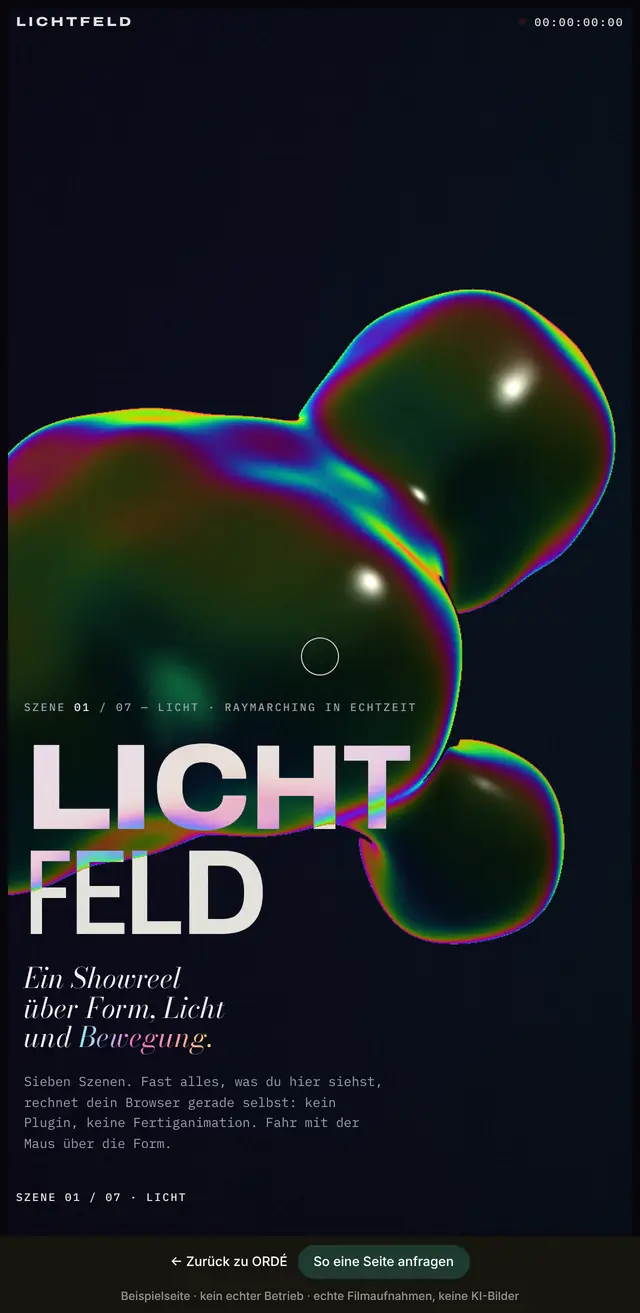
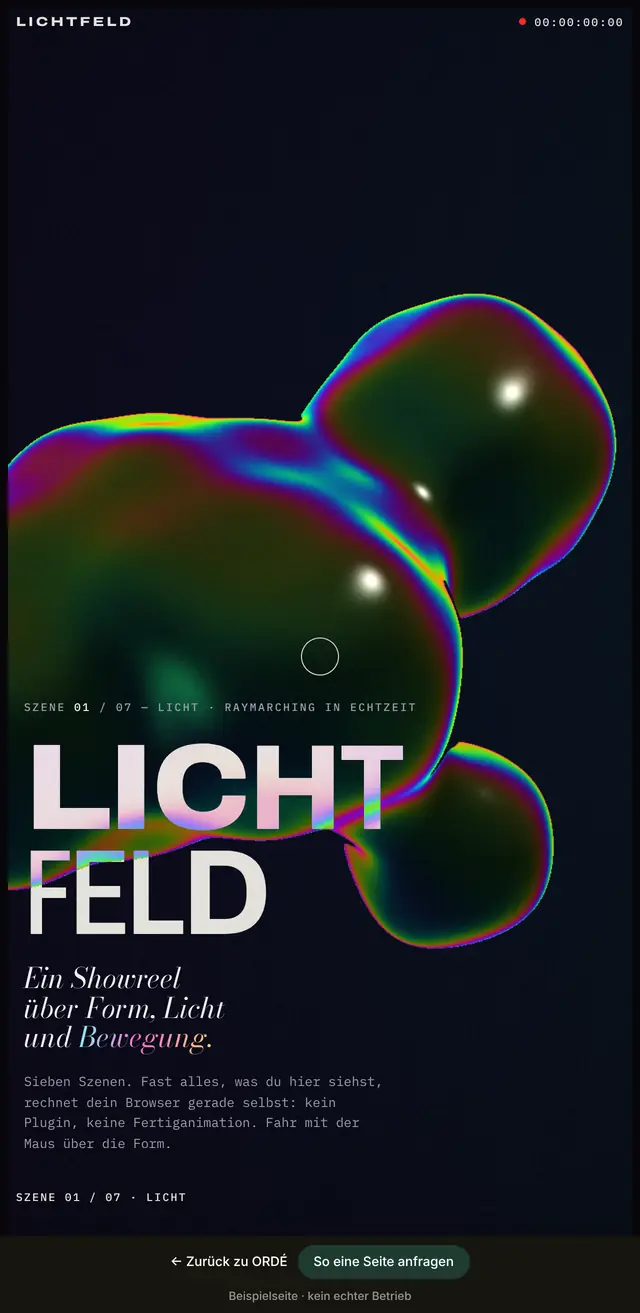
Showreels: nichts mehr zur Herkunft der Videos
Kein „echte Filmaufnahmen, keine KI-Bilder“, kein „frei lizenziert“, keine
Clip-Etiketten mehr, auch nicht im Rückkehr-Balken. LIZENZEN.md nennt die
Quelle nicht mehr, die Nachweise liegen im privaten Handbuch. Vorschaubilder
neu (Arturs Vorgabe vom 03.11.2026).

Claude-Session: https://claude.ai/code/session_01Y1TQqoZVWe5NoND9wqLr2G

diff --git a/demos/monolith/index.html b/demos/monolith/index.html
@@ -239,7 +239,7 @@ canvas{display:block}
       <div class="real-fuss">
         <div class="real-titel" aria-live="polite">
           <h2 id="realTitel">Rohbau im <em>Gegenlicht.</em></h2>
-          <p id="realText">1920 × 1080 · 30 fps · echte Aufnahme</p>
+          <p id="realText">1920 × 1080 · 30 fps</p>
         </div>
         <span class="real-nr" id="realNr">01</span>
       </div>
@@ -269,13 +269,13 @@ canvas{display:block}
           <tr><td>A-200</td><td>Volumen</td><td>Bauteile wachsen aus dem Grundriss, Materialien blenden ein</td></tr>
           <tr><td>A-300</td><td>Sonnenstudie</td><td>Sonnenstand nach Breitengrad und Stundenwinkel, weiche Schatten</td></tr>
           <tr><td>A-400</td><td>Schnitt</td><td>Zwei Schnittebenen trennen Arbeitsmodell und Ausführung</td></tr>
-          <tr><td>A-500</td><td>Wirklichkeit</td><td>Vier echte Clips in Full HD, Fenster aus Schnittmasken</td></tr>
+          <tr><td>A-500</td><td>Wirklichkeit</td><td>Vier Clips in Full HD, Fenster aus Schnittmasken</td></tr>
         </tbody>
       </table>
     </div>
     <div class="ende-fuss">
       <button class="knopf" id="nochmal" type="button">Zurück zum Plan ↑</button>
-      <p class="hinweis">Monolith ist ein erfundenes Haus für diese Beispielseite, kein echtes Projekt. Die Videos sind echte Aufnahmen, keine KI-Bilder. Das 3D-Modell wird live im Browser berechnet, die Auflösung passt sich der Leistung des Geräts an. Gebaut von ORDÉ.</p>
+      <p class="hinweis">Monolith ist ein erfundenes Haus für diese Beispielseite, kein echtes Projekt. Das 3D-Modell wird live im Browser berechnet, die Auflösung passt sich der Leistung des Geräts an. Gebaut von ORDÉ.</p>
     </div>
   </div>
 </section>
@@ -615,7 +615,7 @@ function initReal() {
       if (zeigen && geladen) { if (v.paused) { const pr = v.play(); pr && pr.catch(() => {}); } } else if (!v.paused) v.pause();
     });
     const k = clamp(Math.floor(p * N + .4), 0, N - 1);
-    if (k !== aktiv) { aktiv = k; titel.innerHTML = REAL[k][0]; text.textContent = `${REAL[k][1]} · 1920 × 1080 · 30 fps · echte Aufnahme`; nr.textContent = zwei(k + 1); }
+    if (k !== aktiv) { aktiv = k; titel.innerHTML = REAL[k][0]; text.textContent = `${REAL[k][1]} · 1920 × 1080 · 30 fps`; nr.textContent = zwei(k + 1); }
   }, aus() { vids.forEach(v => v.pause()); } });
 }
 
@@ -654,7 +654,7 @@ if (window.gsap && !RM) {
 
 <div id="ordeBalken">
   <a href="../../referenzen.html">&larr; Zur&uuml;ck zu ORD&Eacute;</a>
-  <span>Beispielseite &middot; erfundenes Projekt &middot; echte Filmaufnahmen, keine KI-Bilder</span>
+  <span>Beispielseite &middot; erfundenes Projekt</span>
   <a class="ordeCta" href="../../anfrage.html">So eine Seite anfragen</a>
 </div>
 <style>

diff --git a/demos/monolith/en.html b/demos/monolith/en.html
@@ -239,7 +239,7 @@ canvas{display:block}
       <div class="real-fuss">
         <div class="real-titel" aria-live="polite">
           <h2 id="realTitel">The shell, <em>backlit.</em></h2>
-          <p id="realText">1920 × 1080 · 30 fps · real footage</p>
+          <p id="realText">1920 × 1080 · 30 fps</p>
         </div>
         <span class="real-nr" id="realNr">01</span>
       </div>
@@ -269,13 +269,13 @@ canvas{display:block}
           <tr><td>A-200</td><td>Massing</td><td>Building elements rise from the floor plan, materials fade in</td></tr>
           <tr><td>A-300</td><td>Sun study</td><td>Sun position from latitude and hour angle, soft shadows</td></tr>
           <tr><td>A-400</td><td>Section</td><td>Two section planes separate working model and built design</td></tr>
-          <tr><td>A-500</td><td>Reality</td><td>Four real Full HD clips, windows cut with clipping masks</td></tr>
+          <tr><td>A-500</td><td>Reality</td><td>Four Full HD clips, windows cut with clipping masks</td></tr>
         </tbody>
       </table>
     </div>
     <div class="ende-fuss">
       <button class="knopf" id="nochmal" type="button">Back to the plan ↑</button>
-      <p class="hinweis">Monolith is a made-up house for this example site, not a real project. The videos are real footage, no AI images. The 3D model is rendered live in your browser, and its resolution adapts to your device. Built by ORDÉ.</p>
+      <p class="hinweis">Monolith is a made-up house for this example site, not a real project. The 3D model is rendered live in your browser, and its resolution adapts to your device. Built by ORDÉ.</p>
     </div>
   </div>
 </section>
@@ -615,7 +615,7 @@ function initReal() {
       if (zeigen && geladen) { if (v.paused) { const pr = v.play(); pr && pr.catch(() => {}); } } else if (!v.paused) v.pause();
     });
     const k = clamp(Math.floor(p * N + .4), 0, N - 1);
-    if (k !== aktiv) { aktiv = k; titel.innerHTML = REAL[k][0]; text.textContent = `${REAL[k][1]} · 1920 × 1080 · 30 fps · real footage`; nr.textContent = zwei(k + 1); }
+    if (k !== aktiv) { aktiv = k; titel.innerHTML = REAL[k][0]; text.textContent = `${REAL[k][1]} · 1920 × 1080 · 30 fps`; nr.textContent = zwei(k + 1); }
   }, aus() { vids.forEach(v => v.pause()); } });
 }
 
@@ -654,7 +654,7 @@ if (window.gsap && !RM) {
 
 <div id="ordeBalken">
   <a href="../../en/examples.html">&larr; Back to ORD&Eacute;</a>
-  <span>Example site &middot; made-up project &middot; real footage, no AI images</span>
+  <span>Example site &middot; made-up project</span>
   <a class="ordeCta" href="../../en/contact.html">Request a site like this</a>
 </div>
 <style>

diff --git a/demos/lichtfeld/index.html b/demos/lichtfeld/index.html
@@ -326,7 +326,6 @@ canvas{display:block}
     <h2>Bild wird <em>Flüssigkeit.</em></h2>
     <div class="fluss-fuss">
       <p class="mono">Bewege die Maus oder den Finger über das Bild. Ein Shader verbiegt das laufende Video, sechzigmal pro Sekunde. Schnelles Scrollen spaltet die Farben.</p>
-      <p class="etikett">Echte Aufnahme · frei lizenziert</p>
     </div>
   </div>
 </section>
@@ -344,11 +343,10 @@ canvas{display:block}
       <div><dt>Rhythmus</dt><dd>Horizontale Fahrt, Neigung nach Scrollgeschwindigkeit</dd></div>
       <div><dt>Fluss</dt><dd>Wellenverzerrung und Farbspaltung auf laufendem Video</dd></div>
       <div><dt>Schrift</dt><dd>Archivo (variable Breite), Bodoni Moda, IBM Plex Mono</dd></div>
-      <div><dt>Clips</dt><dd>Echte Filmaufnahmen, frei lizenziert</dd></div>
     </dl>
     <div class="abspann-fuss">
       <button class="knopf" id="nochmal" type="button">Nochmal von vorn <span aria-hidden="true">↑</span></button>
-      <p class="hinweis">Abstrakte Beispielseite, kein echter Betrieb. Die Videos sind echte Aufnahmen, keine KI-Bilder. Gebaut von ORDÉ als eine einzige HTML-Datei.</p>
+      <p class="hinweis">Abstrakte Beispielseite, kein echter Betrieb. Gebaut von ORDÉ als eine einzige HTML-Datei.</p>
     </div>
   </div>
 </section>
@@ -903,7 +901,7 @@ if (window.gsap && !RM) {
 
 <div id="ordeBalken">
   <a href="../../referenzen.html">&larr; Zur&uuml;ck zu ORD&Eacute;</a>
-  <span>Beispielseite &middot; kein echter Betrieb &middot; echte Filmaufnahmen, keine KI-Bilder</span>
+  <span>Beispielseite &middot; kein echter Betrieb</span>
   <a class="ordeCta" href="../../anfrage.html">So eine Seite anfragen</a>
 </div>
 <style>

diff --git a/demos/lichtfeld/en.html b/demos/lichtfeld/en.html
@@ -326,7 +326,6 @@ canvas{display:block}
     <h2>Footage turns <em>liquid.</em></h2>
     <div class="fluss-fuss">
       <p class="mono">Drag your mouse or finger across the image. A shader warps the playing video sixty times a second. Scroll fast and the colors split apart.</p>
-      <p class="etikett">Real footage · free license</p>
     </div>
   </div>
 </section>
@@ -344,11 +343,10 @@ canvas{display:block}
       <div><dt>Rhythm</dt><dd>Horizontal track, tilt driven by scroll speed</dd></div>
       <div><dt>Flow</dt><dd>Ripple distortion and color split on live video</dd></div>
       <div><dt>Type</dt><dd>Archivo (variable width), Bodoni Moda, IBM Plex Mono</dd></div>
-      <div><dt>Clips</dt><dd>Real footage, free license</dd></div>
     </dl>
     <div class="abspann-fuss">
       <button class="knopf" id="nochmal" type="button">Play it again <span aria-hidden="true">↑</span></button>
-      <p class="hinweis">Abstract example site, not a real business. The videos are real footage, no AI images. Built by ORDÉ as a single HTML file.</p>
+      <p class="hinweis">Abstract example site, not a real business. Built by ORDÉ as a single HTML file.</p>
     </div>
   </div>
 </section>
@@ -903,7 +901,7 @@ if (window.gsap && !RM) {
 
 <div id="ordeBalken">
   <a href="../../en/examples.html">&larr; Back to ORD&Eacute;</a>
-  <span>Example site &middot; not a real business &middot; real footage, no AI images</span>
+  <span>Example site &middot; not a real business</span>
   <a class="ordeCta" href="../../en/contact.html">Request a site like this</a>
 </div>
 <style>

diff --git a/demos/lumen/index.html b/demos/lumen/index.html
@@ -281,11 +281,10 @@ canvas{display:block}
       <div><dt>Particle Morph</dt><dd>Teilchen formen Flakon, Nebel und Schriftzug, Maus als Kraftfeld</dd></div>
       <div><dt>Golden Portal</dt><dd>Drei Ringe aus Gold, Lichtwirbel aus einem Video im Shader, Flug hindurch</dd></div>
       <div><dt>Schrift</dt><dd>Italiana, Newsreader, Jost</dd></div>
-      <div><dt>Clips</dt><dd>Echte Filmaufnahmen, frei lizenziert</dd></div>
     </dl>
     <div class="abspann-fuss">
       <button class="knopf" id="nochmal" type="button">Zurück zum Flakon ↑</button>
-      <p class="hinweis">Lumen No. 4 ist eine erfundene Marke für diese Beispielseite, kein echtes Produkt. Die Videos sind echte Aufnahmen, keine KI-Bilder. Flakon, Glas, Teilchen und Portal werden live im Browser berechnet. Gebaut von ORDÉ als eine einzige HTML-Datei.</p>
+      <p class="hinweis">Lumen No. 4 ist eine erfundene Marke für diese Beispielseite, kein echtes Produkt. Flakon, Glas, Teilchen und Portal werden live im Browser berechnet. Gebaut von ORDÉ als eine einzige HTML-Datei.</p>
     </div>
   </div>
 </section>
@@ -803,7 +802,7 @@ if (window.gsap && !RM) {
 
 <div id="ordeBalken">
   <a href="../../referenzen.html">&larr; Zur&uuml;ck zu ORD&Eacute;</a>
-  <span>Beispielseite &middot; erfundene Marke &middot; echte Filmaufnahmen, keine KI-Bilder</span>
+  <span>Beispielseite &middot; erfundene Marke</span>
   <a class="ordeCta" href="../../anfrage.html">So eine Seite anfragen</a>
 </div>
 <style>

diff --git a/demos/lumen/en.html b/demos/lumen/en.html
@@ -281,11 +281,10 @@ canvas{display:block}
       <div><dt>Particle Morph</dt><dd>Particles form flacon, mist and wordmark; the mouse acts as a force field</dd></div>
       <div><dt>Golden Portal</dt><dd>Three gold rings, a swirl of light drawn from video in a shader, a flight through</dd></div>
       <div><dt>Typefaces</dt><dd>Italiana, Newsreader, Jost</dd></div>
-      <div><dt>Footage</dt><dd>Real footage, free license</dd></div>
     </dl>
     <div class="abspann-fuss">
       <button class="knopf" id="nochmal" type="button">Back to the flacon ↑</button>
-      <p class="hinweis">Lumen No. 4 is a made-up brand for this example site, not a real product. The videos are real footage, no AI images. Flacon, glass, particles and portal are rendered live in the browser. Built by ORDÉ as a single HTML file.</p>
+      <p class="hinweis">Lumen No. 4 is a made-up brand for this example site, not a real product. Flacon, glass, particles and portal are rendered live in the browser. Built by ORDÉ as a single HTML file.</p>
     </div>
   </div>
 </section>
@@ -803,7 +802,7 @@ if (window.gsap && !RM) {
 
 <div id="ordeBalken">
   <a href="../../en/examples.html">&larr; Back to ORD&Eacute;</a>
-  <span>Example site &middot; made-up brand &middot; real footage, no AI images</span>
+  <span>Example site &middot; made-up brand</span>
   <a class="ordeCta" href="../../en/contact.html">Request a site like this</a>
 </div>
 <style>

diff --git a/CLAUDE.md b/CLAUDE.md
@@ -22,12 +22,13 @@ zeigen, was technisch geht (WebGL, 3D, Simulationen) und erscheinen auf byorde.c
 in einem eigenen Abschnitt (`SHOWREELS` in `orde-website/build.py`), nicht in
 `BRANCHEN`. Abweichend von den sechs Demos:
 
-- **Keine KI-Bilder.** Die Videos sind echte, frei lizenzierte Stockaufnahmen, `spektrum`
-  ist ganz berechnet. Der Rückkehr-Balken sagt deshalb „echte Filmaufnahmen, keine KI-Bilder“
-  statt „Bilder mit KI erzeugt“. Kommt je ein KI-Bild dazu, muss der Hinweis zurück.
-- **Plattform nicht nennen** (Arturs Vorgabe, 03.11.2026): Auf den Seiten steht nicht, woher
-  ein Video stammt (kein „Mixkit“). Die Herkunft steht intern in `bibliothek/LIZENZEN.md`
-  bzw. der `QUELLEN.md` des Projekts. Quellen und Regeln: `Business-Handbuch/werkzeuge/website/VIDEOQUELLEN.md`.
+- **Keine KI-Bilder.** Die Videos sind frei lizenzierte Stockaufnahmen, `spektrum` ist ganz
+  berechnet. Deshalb steht im Rückkehr-Balken kein „Bilder mit KI erzeugt“. Kommt je ein
+  KI-Bild dazu, muss der Hinweis zurück.
+- **Nichts zur Herkunft der Videos schreiben** (Arturs Vorgabe, 03.11.2026): keine Plattform,
+  kein „echte Filmaufnahmen“, kein „frei lizenziert“. Die Lizenznachweise stehen nur im privaten
+  Handbuch (`Business-Handbuch/werkzeuge/website/VIDEOQUELLEN.md` und `quellen/`), nicht in
+  diesem öffentlichen Repo.
 - **Nichts von fremden Servern.** Three.js, GSAP, Lenis und alle Schriften liegen
   in `demos/bibliothek/`. Keine CDN-Links und kein Google Fonts einbauen, sonst
   stimmt die Datenschutzerklärung von byorde.com nicht mehr.

diff --git a/demos/bibliothek/LIZENZEN.md b/demos/bibliothek/LIZENZEN.md
@@ -11,4 +11,5 @@ Lokal abgelegt, damit byorde.com nichts von fremden Servern lädt (siehe Datensc
 | `schriften/*.woff2`, `schriften.css` | Google Fonts: Archivo, Bodoni Moda, IBM Plex Mono, Geist, Geist Mono, Instrument Serif, Italiana, Newsreader, Jost, Unbounded, Onest, Fragment Mono | SIL Open Font License 1.1 |
 
 Schriften nur im lateinischen Zeichensatz (Umlaute, ß und € sind enthalten).
-Die Videos der Showreels sind Stockaufnahmen von Mixkit (Mixkit Free License), keine KI-Bilder.
+Die Videos der Showreels sind frei lizenzierte Stockaufnahmen, keine KI-Bilder. Die Lizenznachweise
+liegen im privaten Business-Handbuch.
